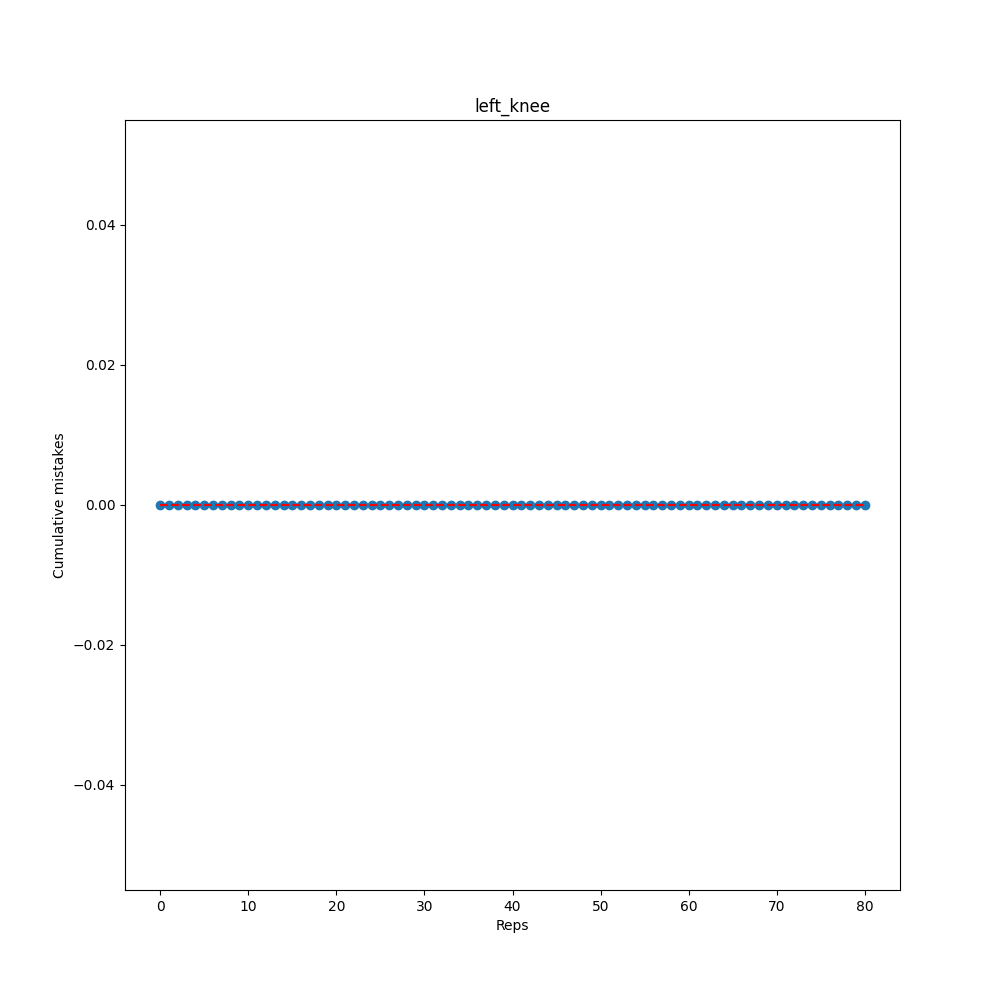
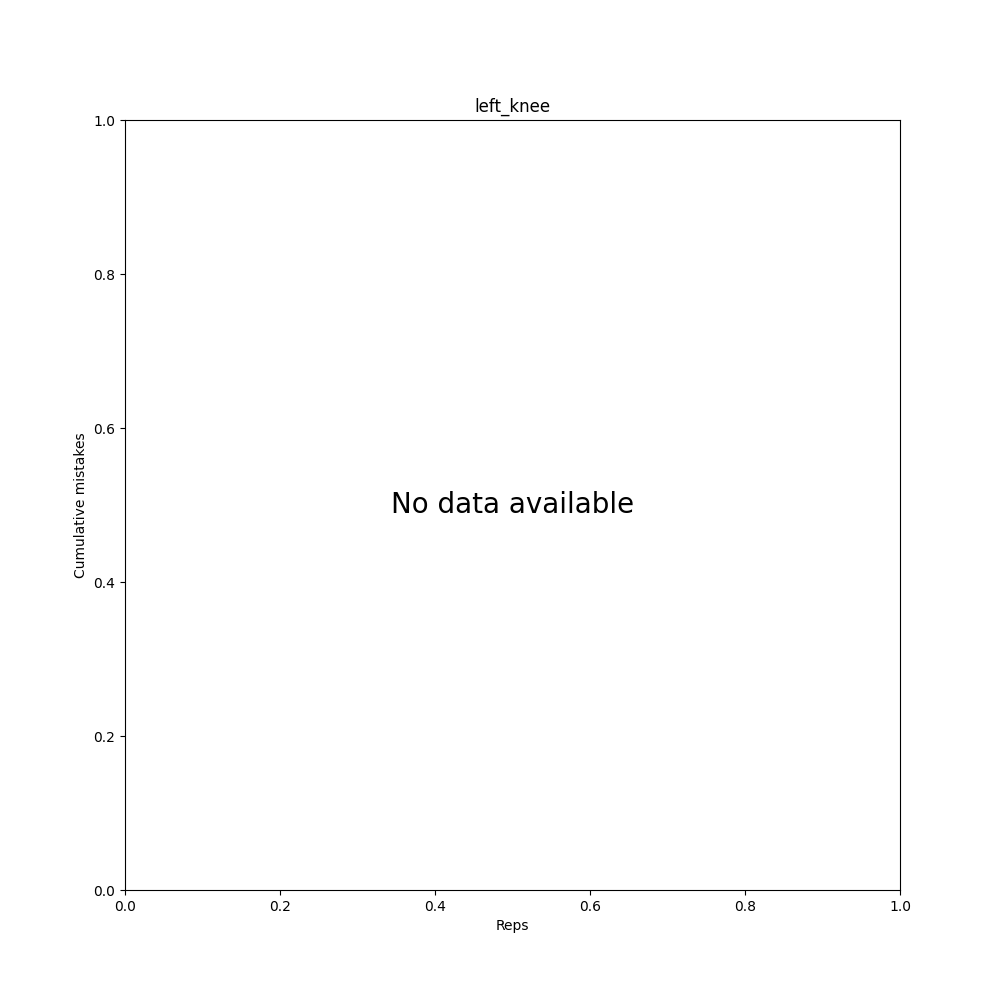
modify injuiry analysis

diff --git a/FullStack/ExerciseEvaluator/PostProcessor.py b/FullStack/ExerciseEvaluator/PostProcessor.py
@@ -20,7 +20,7 @@ class PostProcessor:
         is_file_empty = os.path.isfile(path) and os.path.getsize(path) <= 0
         if is_file_empty: return None
         return pd.read_csv(path)
-
+    
     def read_json_file(self, path) -> pd.Series:
         self.metadata = pd.read_json(path, typ='series')
         return self.metadata
@@ -49,8 +49,8 @@ class PostProcessor:
         # add the rep column
         converted_evaluation['rep'] = evaluation['rep']
 
-        # fill the rest of the columns with 0
-        converted_evaluation.replace(np.nan, 0, inplace=True)
+        # fill the rest of the columns with -1
+        converted_evaluation.replace(np.nan, -1, inplace=True)
 
         # Reformat the data
         exercise = ExerciseType[self.metadata['exercise']]
@@ -73,26 +73,34 @@ class PostProcessor:
         #     Perspective[self.metadata['perspective']]
         # )
 
-        all_involved_joints = [jointType for jointType in JointType]
+        all_joints = [jointType for jointType in JointType]
 
         joint_info_list = []
-        for joint in all_involved_joints:
+        for joint in all_joints:
             joint_info = {}
-            
-            name = joint.name.lower()
-            x_axis = converted_evaluation['rep']
-            y_axis = converted_evaluation[name].cumsum()
-            weights = np.polyfit(x_axis, y_axis, 1)
-            line = np.poly1d(weights)
-            slope = weights[0]
 
+            name = joint.name.lower()
+            converted_evaluation_dropped = converted_evaluation[converted_evaluation[name] != -1]
+            y_axis = converted_evaluation_dropped[name].cumsum()
+            x_axis = pd.Series(list(range(y_axis.shape[0])))
+
+            if y_axis.empty:
+                weights = 'No weights available'
+                line = 'No line available'
+                slope = 0
+            else:
+                weights = np.polyfit(x_axis, y_axis, 1)
+                line = np.poly1d(weights)
+                slope = weights[0]
+
+            joint_info['available'] = not y_axis.empty
             joint_info['name'] = name
             joint_info['x_axis'] = x_axis
             joint_info['y_axis'] = y_axis
             joint_info['weights'] = weights
             joint_info['line'] = line
             joint_info['slope'] = slope
-            joint_info['reps'] = len(x_axis)
+            joint_info['reps'] = x_axis.shape[0]
 
             joint_info_list.append(joint_info)
 
@@ -129,12 +137,27 @@ class PostProcessor:
 
             # plt.subplot(len(analyzed_data), 1, index + 1)  # rows, columns, index
 
-            plt.plot(joint['x_axis'], joint['y_axis'], 'o')
-            plt.plot(joint['x_axis'], joint['line'](joint['x_axis']), "r--")
+            if joint['available']:
+                plt.plot(joint['x_axis'], joint['y_axis'], 'o')
+                plt.plot(joint['x_axis'], joint['line'](joint['x_axis']), "r--")
 
-            plt.title(joint['name'])
-            plt.xlabel('Reps')
-            plt.ylabel('Cumulative mistakes')
+                plt.title(joint['name'])
+                plt.xlabel('Reps')
+                plt.ylabel('Cumulative mistakes')
+            
+            else:
+                plt.title(joint['name'])
+                plt.xlabel('Reps')
+                plt.ylabel('Cumulative mistakes')
+                plt.text(
+                    0.5, 
+                    0.5, 
+                    'No data available', 
+                    horizontalalignment='center', 
+                    verticalalignment='center', 
+                    transform=plt.gca().transAxes, 
+                    fontdict={'fontsize': 20}
+                )
         
             if graphs_path:
                 plt.savefig(os.path.join(graphs_path, f'{joint["name"]}.png'))
@@ -142,8 +165,7 @@ class PostProcessor:
                 plt.show()
     
     
-
-    #? The only method you need to call
+    #? The only method you need to call for post processing
     @staticmethod
     def run_with_merge(directory_path: str, graphs_path: str) -> List[Dict[str, Any]]:
         post_processor = PostProcessor()
@@ -164,9 +186,12 @@ class PostProcessor:
 
         # TODO: Get stored evaluation from database not a file
         stored_evaluation = post_processor.read_csv_file(evaluation_db_path)
+        print (stored_evaluation)
+        print(converted_evaluation)
 
         # Merge stored evaluation with converted_evaluation
         merged_evaluation = post_processor.merge(stored_evaluation, converted_evaluation)
+        print(merged_evaluation)
 
         # TODO: Save converted_evaluation to database not a file
         merged_evaluation.to_csv(evaluation_db_path, index=False)
@@ -175,7 +200,7 @@ class PostProcessor:
         post_processor.visualize(analyzed_data, graphs_path=graphs_path)
         return post_processor.get_all_joints_feedback(analyzed_data)
     
-    #? The only method you need to call
+    #? The only method you need to call for analysis page
     @staticmethod
     def run_without_merge(directory_path: str, graphs_path: str) -> Optional[List[Dict[str, Any]]]:
         post_processor = PostProcessor()
